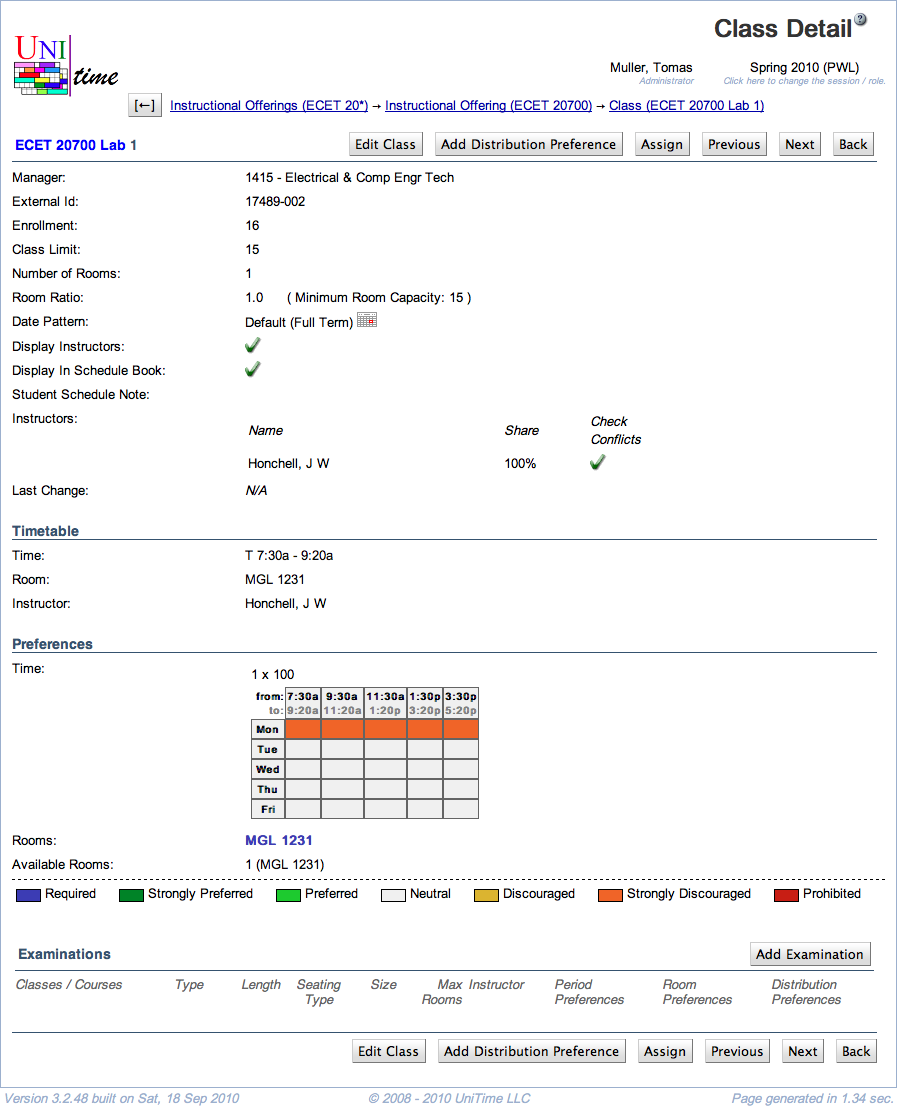
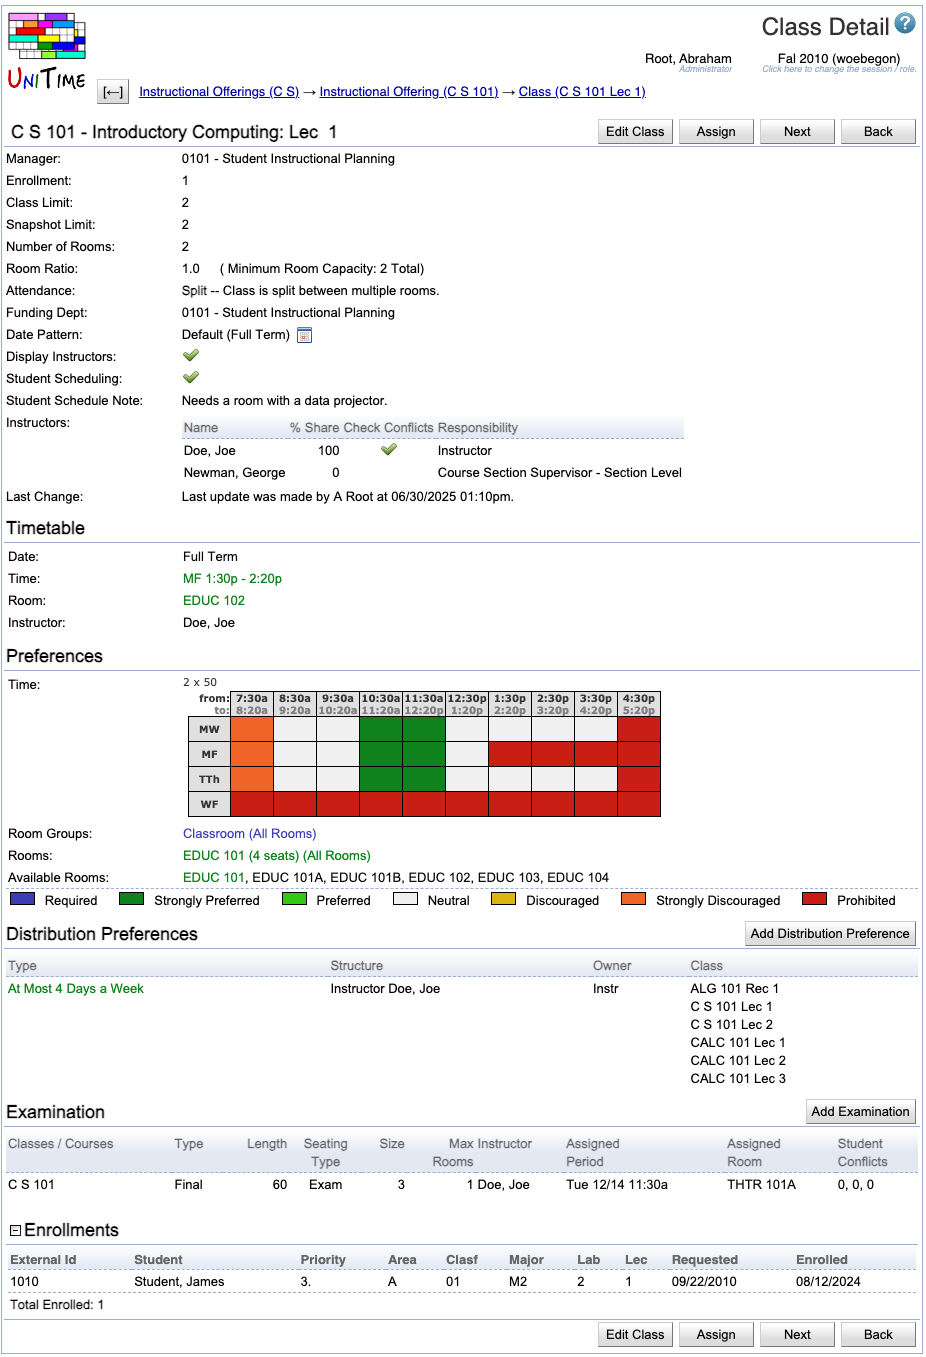
Class Detail
- new screenshots, new fields, text cleanup

Changed region(s): [[0.0, 0.0, 1.0, 1.0]]

diff --git a/class-detail.md b/class-detail.md
@@ -15,104 +15,159 @@ The Class Detail screen offers an overview of information about a class. Most of
 The following fields are displayed in the upper part of the screen (below the name of the class):
 
 * **Manager**
-	* Manager responsible for timetabling this class
-	* Editable in the [Multiple Class Setup](multiple-class-setup) screen
+    * Manager responsible for timetabling this class
+    * Editable in the [Multiple Class Setup](multiple-class-setup) screen
 
 * **Enrollment**
-	* Number of enrolled students (if available)
+    * Number of enrolled students (if available)
 
 * **Class Limit**
-	* Number of students that should be able to register for a given class
-	* Editable in the [Multiple Class Setup](multiple-class-setup) screen
+    * Number of students that should be able to register for a given class
+    * Editable in the [Multiple Class Setup](multiple-class-setup) screen
+
+* **Snapshot Limit**
+    * The class limit at the time the [Limit and Projection Snapshot](limit-and-projection-snapshot) was taken.
 
 * **Number Of Rooms**
-	* Number of rooms needed for the class (usually one)
-	* Editable in the [Multiple Class Setup](multiple-class-setup) screen
+    * Number of rooms needed for the class (usually one)
+    * Editable in the [Multiple Class Setup](multiple-class-setup) screen
 
 * **Room Ratio**
-	* The ratio of the required room size to the class limit
-		* Room Ratio = Room Size / Class Limit
-	* In almost all cases, this should be one
-	* Some exceptions to the norm
-		* You need a room for fewer students than the class limit (Room Ratio is less than one)
-		* You need a room for a class with zero limit. In this case, Room Ratio needs to contain the required room size
-	* In parenthesis after the room ratio, you can see the minimum room capacity required for this class (for Class Limit <> 0, it is calculated as Minimum Room Capacity = Room Ratio * Class Limit; if Class Limit = 0, then Minimum Room Capacity = Room Ratio)
-	* Editable in the [Multiple Class Setup](multiple-class-setup) screen
+    * The ratio of the required room size to the class limit
+        * Room Ratio = Room Size / Class Limit
+    * In almost all cases, this should be one
+    * Some exceptions to the norm
+        * You need a room for fewer students than the class limit (Room Ratio is less than one)
+        * You need a room for a class with zero limit. In this case, Room Ratio needs to contain the required room size
+    * In parenthesis after the room ratio, you can see the minimum room capacity required for this class (for Class Limit <> 0, it is calculated as Minimum Room Capacity = Room Ratio * Class Limit; if Class Limit = 0, then Minimum Room Capacity = Room Ratio)
+    * Editable in the [Multiple Class Setup](multiple-class-setup) screen
+
+* **Attendance**
+    * When there are two or more rooms required for the class
+    * **Split Attendance** means that students are expected to split between the two (or more) rooms. That is the total capacity of the assigned room &times; the room ratio must be equal to or greater than the class limit.
+    * **Alternative Attendance** means that all students are expected to be able to fit in any of the assigned rooms. That is, the room capacity of any assigned room &times; the room ratio must be equal to or greater than the class limit.
+    * Editable in the [Multiple Class Setup](multiple-class-setup) screen
+
+* **Funding Dept**
+    * The department providing funding for this class.
+    * This field is not visible by default.  To enable this field, the `unitime.courses.funding_departments_enabled` application property must be set to `true`.
+    * Editable in the [Multiple Class Setup](multiple-class-setup) screen
 
 * **Date Pattern**
-	* Days/weeks throughout the semester during which this class will be taught
-	* You can click on the icon of the calendar to see which dates belong to the selected date pattern
-	* Editable in the [Edit Class](edit-class) screen
+    * Days/weeks throughout the semester during which this class will be taught
+    * You can click on the icon of the calendar to see which dates belong to the selected date pattern
+    * Editable in the [Edit Class](edit-class) screen
 
 * **Display Instructors**
-	* When checked (and it is checked by default), the instructors for this class will be displayed in the online Schedule of Classes
-	* When not checked, the instructor will not be displayed in the online Schedule of Classes, and his/her name will have to be re-entered for reporting purposes
-	* Editable in the [Edit Class](edit-class) screen
+    * When checked (and it is checked by default), the instructors for this class will be displayed in the online Schedule of Classes
+    * When not checked, the instructor will not be displayed in the online Schedule of Classes, and his/her name will have to be re-entered for reporting purposes
+    * Editable in the [Edit Class](edit-class) screen
 
 * **Student Scheduling**
-	* When checked (and it is checked by default), the class will be avaliable to students during student scheduling
-	* When not checked, the class will be treated as with zero limit during student scheduling (only students with individual reservations will be able to get in) - the class not to be displayed is in italics wherever it is listed
-	* Editable in the [Edit Class](edit-class) screen
+    * When checked (and it is checked by default), the class will be available to students during student scheduling
+    * When not checked, the class will be treated as with zero limit during student scheduling (only students with individual reservations will be able to get in) - the class not to be displayed is in italics wherever it is listed
+    * Editable in the [Edit Class](edit-class) screen
 
 * **Student Schedule Note**
-	* The class note that will be displayed in the online Schedule of Classes
-	* Editable in the [Edit Class](edit-class) screen
+    * The class note that will be displayed in the online Schedule of Classes
+    * Editable in the [Edit Class](edit-class) screen
 
 * **Requests / Notes**
-	* Requests/Notes for the manager who will timetable this class
-	* Displayed only if it is not empty
+    * Requests/Notes for the manager who will timetable this class
+    * Displayed only if it is not empty
 
 * **Instructors**
-	* The following information is displayed and can be edited in the [Edit Class](edit-class) screen
-		* **Name**
-			* Instructor's name
-		* **Share**
-			* The percentage of teaching activity for this class associated with this instructor
-		* **Check Conflicts**
-			* When checked, the instructor's preferences are considered during departmental timetabling; also, checks are performed for this instructor to make sure there is no conflict for him/her between this class and his/her other classes (such as teaching two classes at the same time)
-			* When not checked, the instructor's assignment to this class is ignored during timetabling; no conflict checking will be performed between this class and his/her other classes
+    * The following information is displayed and can be edited in the [Edit Class](edit-class) screen
+        * **Name**
+            * Instructor's name
+        * **Share**
+            * The percentage of teaching activity for this class associated with this instructor
+        * **Check Conflicts**
+            * When checked, the instructor's preferences are considered during departmental timetabling; also, checks are performed for this instructor to make sure there is no conflict for him/her between this class and his/her other classes (such as teaching two classes at the same time)
+            * When not checked, the instructor's assignment to this class is ignored during timetabling; no conflict checking will be performed between this class and his/her other classes
+        * **Responsibility**
+            * When teaching responsibilities are defined, an instructor's teaching responsibility is listed here.
+            * Teaching responsibilities can be defined on the [Teaching Responsibilities](teaching-responsibilities) page in the administration.
 
 * **Last Change**
-	* Information about the last change made to the class (recorded automatically when the [Edit Class](edit-class) screen is updated)
+    * Information about the last change made to the class (recorded automatically when the [Edit Class](edit-class) screen is updated)
 
-In the **Timetable** part, you see the time, room and instructor assigned to this class (once a timetable has been created)
+In the **Timetable** part, you see the time, room, and instructor assigned to this class (once a timetable has been created)
 
-* Normally, a committed timetable is displayed, unless there is a different timetable selected or loaded into the solver for the given class
-
+* Normally, a committed timetable is displayed unless there is a different timetable selected or loaded into the solver for the given class
 * If there is a timetable loaded into the solver and a timetable selected, the loaded one is displayed
-
 * See documentation for [Timetables](timetables) page for more details.
 
 In the **Preferences**, you will see any preferences that have been set up for this class (with color coding for preference levels).
 
 * In **Available Rooms**, you will see only those rooms that meet your preferences and are large enough for your class (the room capacity is greater than or equal to the minimum room capacity displayed in the upper part of this screen)
-	* Only the first few available rooms are displayed by default; if there are more rooms available than displayed, there are three dots at the end of the list - click on the three dots (...) to see the full list of available rooms
+    * Only the first few available rooms are displayed by default; if there are more rooms available than displayed, there are three dots at the end of the list - click on the three dots (...) to see the full list of available rooms
+* To change the preferences, click on the Edit Class button to get to the [Edit Class](edit-class) screen. There is also more detailed documentation for the preferences on the help page for that screen.
 
-* To change the preferences, click on the Edit Class button to get to the [Edit Class](edit-class) screen. There is also more detailed documentation for the preferences in the help page for that screen.
+### Distribution Preferences
+* The list of distribution preferences applicable to this class.
+* Click on any line to open the [Edit Distribution Preference](edit-distribution-preference) page for any of the distributions.
+    * [Instructor Detail](instructor-detail) page is opened when the distribution preference is set on an instructor.
+
+There is one operation in the Distribution Preferences section:
+
+* **Add Distribution Preference** (Alt+A)
+    * Go to the [Distribution Preferences](distribution-preferences) screen to add a new distribution preference
+        * The class will be pre-populated on that screen
+
+### Examinations
+
+* A list of examinations associated with this class
+    * For an explanation of the column headings, please see the description of the column headings in the [Examinations](examinations) screen
+    * The column **Student Conflicts** contains numbers of "Direct", ">2 a day", and "Back-To-Back" conflicts
+
+* Click on a line with an examination to get to its [Examination Detail](examination-detail) screen
+
+There is one operation in the Examinations section:
+
+* **Add Examination** (Alt+X)
+    * Go to the [Add Examination](add-examination) screen to add a new examination with the scheduling subpart filled in already
+
+## Enrollments
+
+The Enrollments section lists all students who are currently enrolled in the class.
+
+* **Student**
+    * Name of the student
+* **Course**
+    * If there is a cross-list, display the course that the student is requesting/enrolled into
+* **Priority**
+    * Course request priority (see [Student Scheduling Assistant](student-scheduling-assistant))
+* **Curriculum (Area, Classification, Major)**
+    * Student curriculum information (if applicable)
+* **Reservation**
+    * Type of the reservation through which the student got into the course (if applicable)
+* **Enrollment**
+    * For each scheduling subpart, the class number into which the student is enrolled.
+* **Requested**
+    * Date when the course request was made
+* **Enrolled**
+    * Date when the student was enrolled in the course
+
 
 ## Operations
 
 * **Edit Class** (Alt+E)
-	* Go to the [Edit Class](edit-class) screen to edit properties and preferences for the class
-
-* **Add Distribution Preference** (Alt+A)
-	* Go to the [Distribution Preferences](distribution-preferences) screen to add a new distribution preference
-		* The class will be pre-populated in that screen
+    * Go to the [Edit Class](edit-class) screen to edit properties and preferences for the class
 
 * **Assign** (Alt+X)
-	* Go to the [Class Assignment](class-assignment) screen to change the time/room assignment for this class 
-	* Since this is a tool explicitly for making changes to the committed timetables, with less functionality than [Suggestions](suggestions) in the solver section, this button is displayed only when
-
-* There is a committed timetable
-
-* No timetable is loaded nor selected
+    * Go to the [Class Assignment](class-assignment) screen to change the time/room assignment for this class 
+    * Since this is a tool explicitly for making changes to the committed timetables, with less functionality than [Suggestions](suggestions) in the solver section, this button is displayed only when
+	* **Note:** The **Assign** button is only available when:
+		* There is a committed timetable for the solver group of the managing department
+		* No timetable is loaded nor selected
 
 * **Previous** (Alt+P)
-	* Go to the Class Detail screen for the previous class
+    * Go to the Class Detail screen for the previous class
 
 * **Next** (Alt+N)
-	* Go to the Class Detail screen for the next class
+    * Go to the Class Detail screen for the next class
 
 * **Back** (Alt+B)
-	* Go to the last non-editable screen through which you got here
+    * Go to the last non-editable screen through which you got here
 

diff --git a/instructional-offering-detail.md b/instructional-offering-detail.md
@@ -116,8 +116,8 @@ Note: **Previous** and **Next** are used to step through the list displayed on t
     * To change the limit, click on Edit Configuration - which takes you to the [Instructional Offering Configuration](instructional-offering-configuration) screen
 
 * **Snapshot Limit**
-    * The total limit for the instructional offering at the time the Limit a Projection Snapshot was taken.
-    * * The snapshot limit can be updated by taking a new snapshot using the Limit and Projection Snapshot Page.
+    * The total limit for the instructional offering at the time the [Limit and Projection Snapshot](limit-and-projection-snapshot) was taken.
+    * The snapshot limit can be updated by taking a new snapshot using the [Limit and Projection Snapshot](limit-and-projection-snapshot) Page.
 
 * **By Reservation Only**
     * A green checkmark is displayed when all students need a reservation in order to get into the instructional offering
